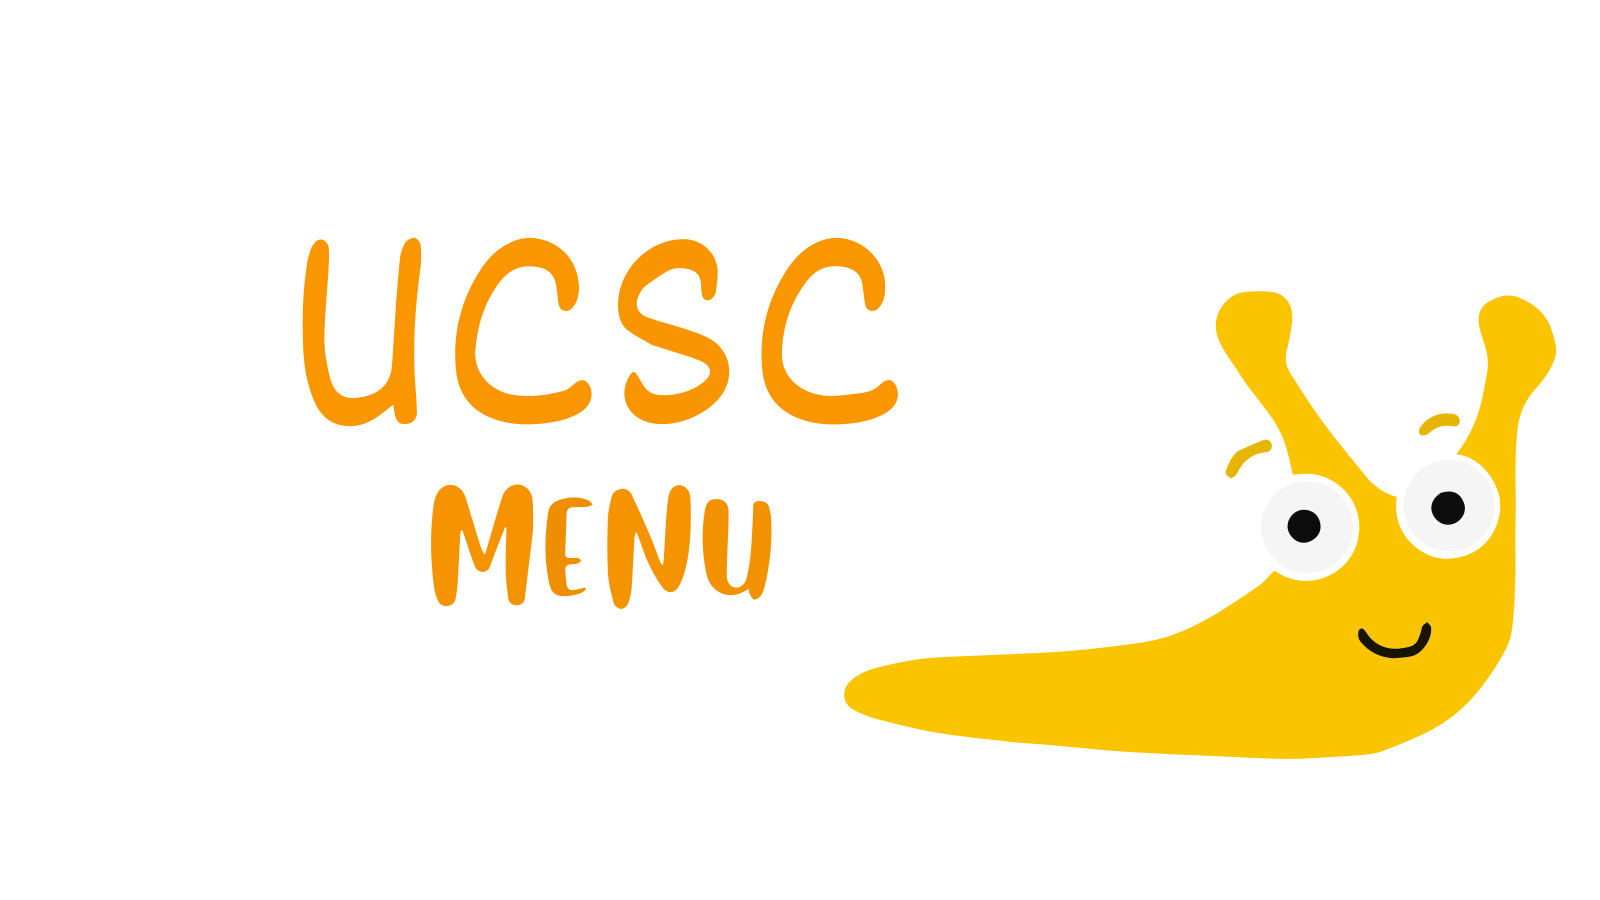
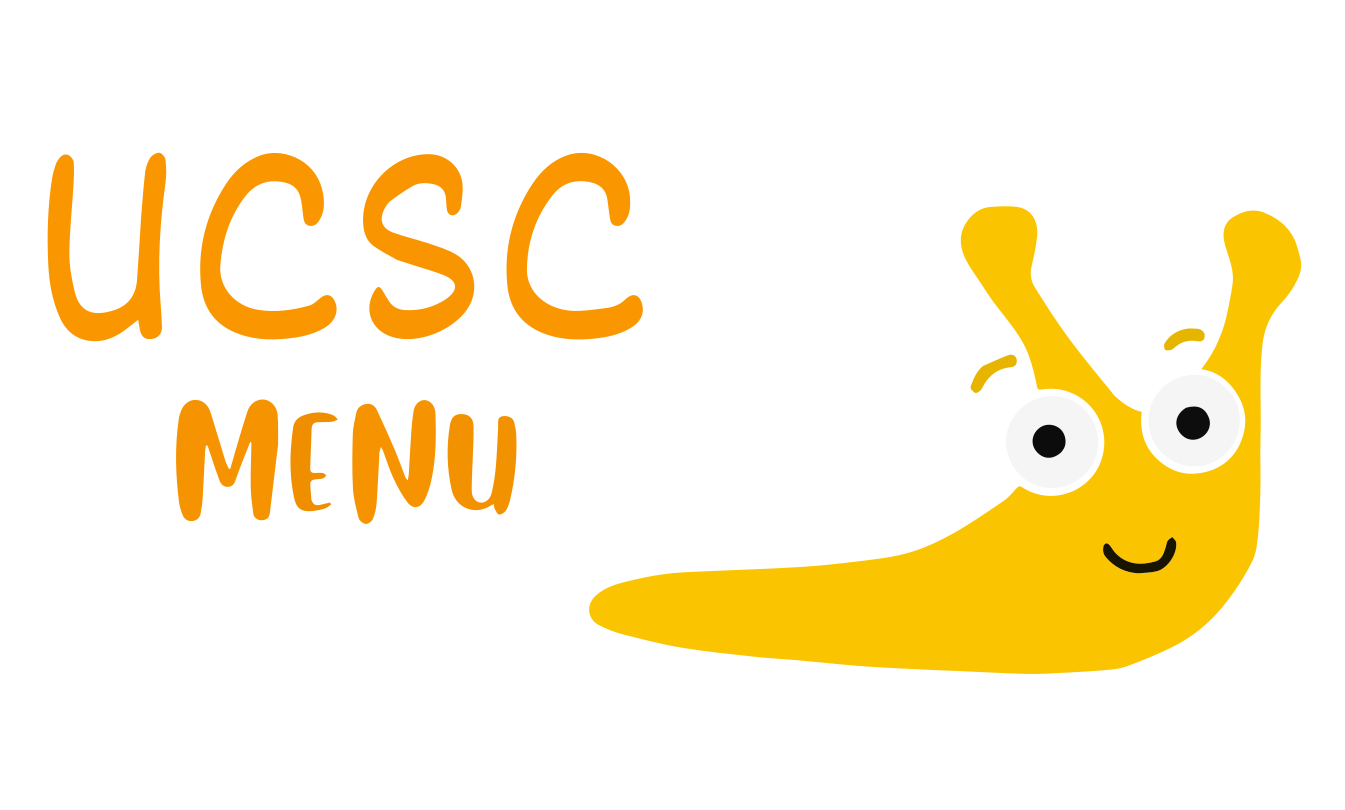
centered navBar image

Changed region(s): [[0.0312, 0.1852, 0.5621, 0.679], [0.4372, 0.2469, 0.9993, 0.8642]]

diff --git a/menu_app/lib/widgets.dart b/menu_app/lib/widgets.dart
@@ -19,61 +19,69 @@ class NavDrawer extends StatelessWidget {
                 height: 30,
               ),
               Container(
+                alignment: Alignment.center,
                 decoration: const BoxDecoration(
-                          border: Border(
-                              bottom: BorderSide(
-                                  width: constants.borderWidth,
-                                  color: Color(constants.darkGray)))),
-                  height: (screenWidth * 0.75) * 0.8,
-                  child:
-                      const Image(image: AssetImage('images/menu_header.png'))),
-              ListTile(
-                leading: const Icon(Icons.house,
-                color: Color(constants.menuColor),),
-                title: const Text('Home',
-                style: TextStyle(
-                            fontFamily: constants.menuFont,
-                            //fontWeight: FontWeight.bold,
-                            fontSize: constants.menuFontSize,
-                            color: Color(constants.menuColor),
-                            height: constants.menuFontheight,
-                          ),),
-                onTap: () => {
-                  main_page.scakey.currentState?.onItemTapped(0)
-                },
+                    border: Border(
+                        bottom: BorderSide(
+                            width: constants.borderWidth,
+                            color: Color(constants.darkGray)))),
+                height: (screenWidth * 0.75) * 0.8,
+                child: Image(
+                  image: const AssetImage('images/menu_header.png'),
+                  width: screenWidth - 50,
+                ),
               ),
               ListTile(
-                leading: const Icon(Icons.settings,
-                color: Color(constants.menuColor),),
-                title: const Text('Settings',
-                style: TextStyle(
-                            fontFamily: constants.menuFont,
-                            //fontWeight: FontWeight.bold,
-                            fontSize: constants.menuFontSize,
-                            color: Color(constants.menuColor),
-                            height: constants.menuFontheight,
-                          ),),
-                onTap: () => {
-                  main_page.scakey.currentState?.onItemTapped(0)
-                },
+                leading: const Icon(
+                  Icons.house,
+                  color: Color(constants.menuColor),
+                ),
+                title: const Text(
+                  'Home',
+                  style: TextStyle(
+                    fontFamily: constants.menuFont,
+                    //fontWeight: FontWeight.bold,
+                    fontSize: constants.menuFontSize,
+                    color: Color(constants.menuColor),
+                    height: constants.menuFontheight,
+                  ),
+                ),
+                onTap: () => {main_page.scakey.currentState?.onItemTapped(0)},
               ),
               ListTile(
-                leading: const Icon(Icons.info_outline,
-                color: Color(constants.menuColor),),
-                title: const Text('About',
-                style: TextStyle(
-                            fontFamily: constants.menuFont,
-                            //fontWeight: FontWeight.bold,
-                            fontSize: constants.menuFontSize,
-                            color: Color(constants.menuColor),
-                            height: constants.menuFontheight,
-                          ),),
-                onTap: () => {
-                  main_page.scakey.currentState?.onItemTapped(5)
-                },
+                leading: const Icon(
+                  Icons.settings,
+                  color: Color(constants.menuColor),
+                ),
+                title: const Text(
+                  'Settings',
+                  style: TextStyle(
+                    fontFamily: constants.menuFont,
+                    //fontWeight: FontWeight.bold,
+                    fontSize: constants.menuFontSize,
+                    color: Color(constants.menuColor),
+                    height: constants.menuFontheight,
+                  ),
+                ),
+                onTap: () => {main_page.scakey.currentState?.onItemTapped(0)},
               ),
-            
-              
+              ListTile(
+                leading: const Icon(
+                  Icons.info_outline,
+                  color: Color(constants.menuColor),
+                ),
+                title: const Text(
+                  'About',
+                  style: TextStyle(
+                    fontFamily: constants.menuFont,
+                    //fontWeight: FontWeight.bold,
+                    fontSize: constants.menuFontSize,
+                    color: Color(constants.menuColor),
+                    height: constants.menuFontheight,
+                  ),
+                ),
+                onTap: () => {main_page.scakey.currentState?.onItemTapped(5)},
+              ),
             ],
           ),
         ));

diff --git a/menu_app/lib/main.dart b/menu_app/lib/main.dart
@@ -223,7 +223,7 @@ class _RootPageState extends State<RootPage> {
   late Future merrillSummary;
   late Future porterSummary;
   bool adLoad = false;
-  bool showAd = false; //CHANGE TO TRUE FOR RELEASE
+  bool showAd = false; //FIXME: CHANGE TO TRUE FOR RELEASE
   BannerAd? _bannerAd;
   int selectedIndex = 0;
 
